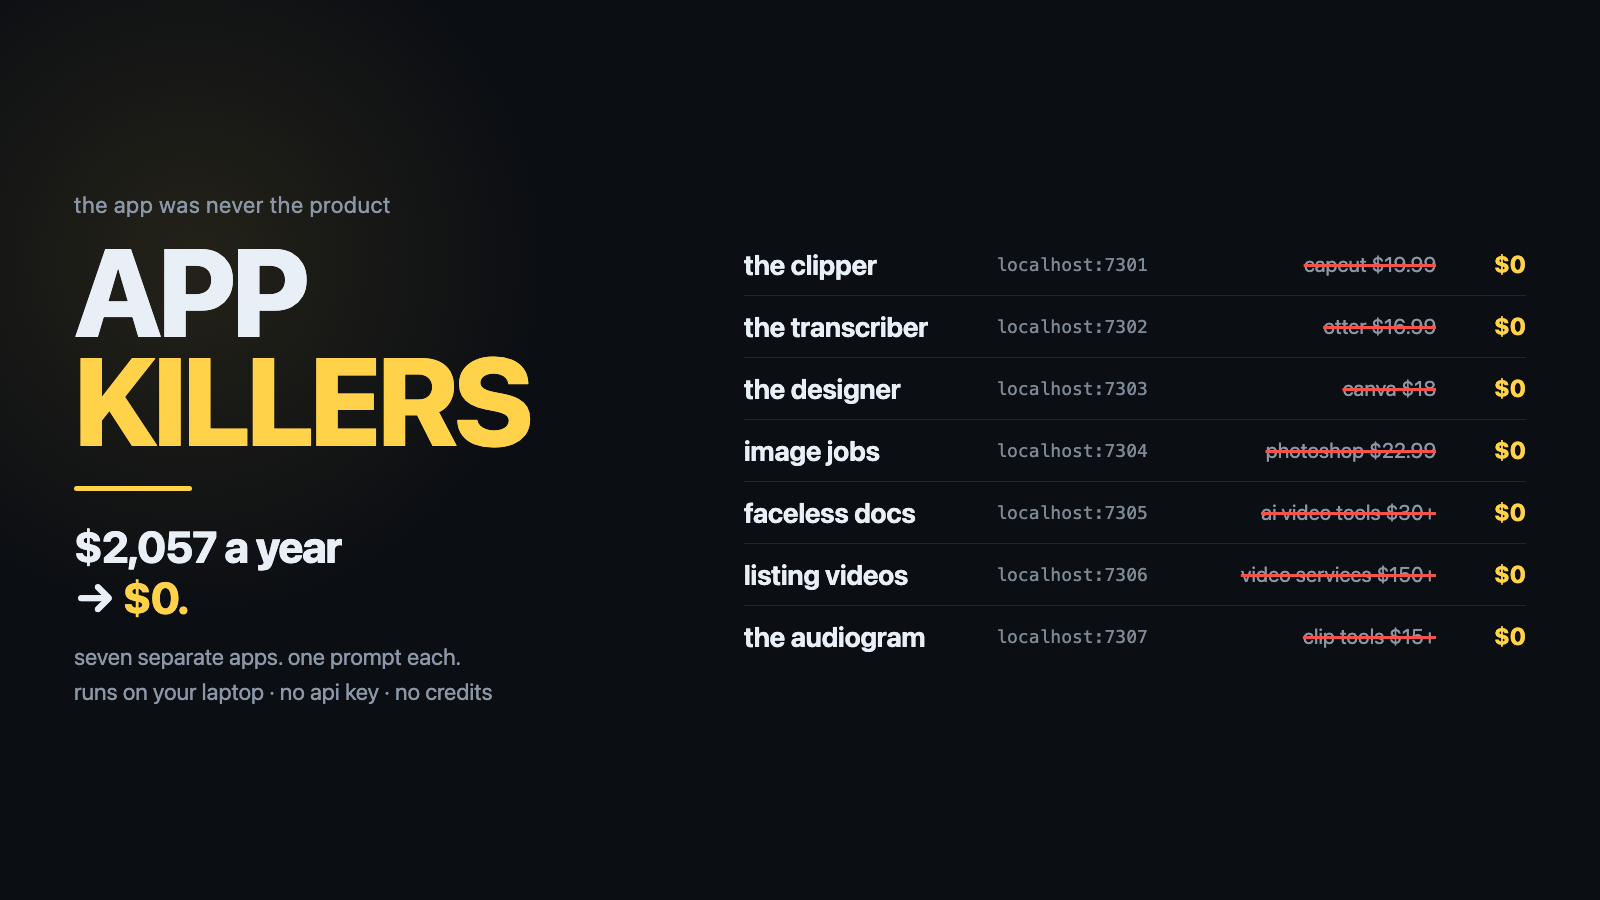
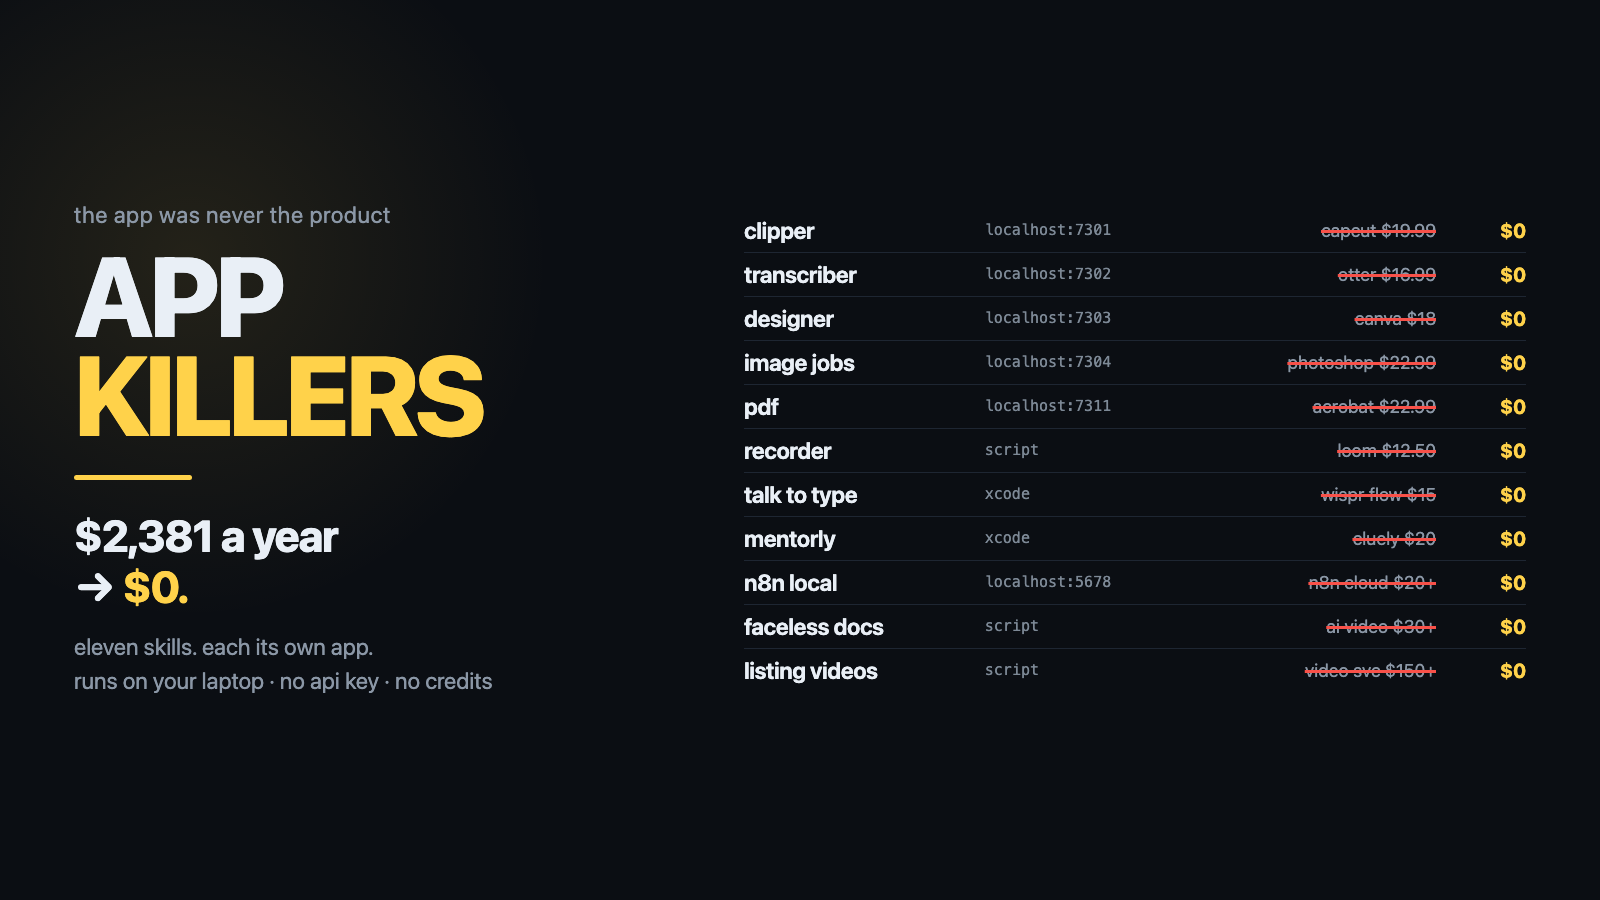
Remove a real client's name from example data; restore missing example files
The listing-videos examples carried a real agent's name, brokerage and property
address. Replaced with fictional data. Also fixes a builder bug that silently
stopped copying example-listing.json and example-episode.json, and refreshes the
banner to match the 11 skills actually in the repo.

diff --git a/skills/listing-videos/scripts/make_tour.py b/skills/listing-videos/scripts/make_tour.py
@@ -5,11 +5,11 @@
 
 listing.json:
 {
-  "address": "11926 Verrazano Dr",
+  "address": "1420 Maple Ridge Ln",
   "city": "Orlando, FL",
   "price": "$660,000",
   "specs": "4 bed  ·  3 bath  ·  2,940 sqft",
-  "agent": {"name": "Debbi Jones", "phone": "(407) 555-0142", "brokerage": "Keller Williams"},
+  "agent": {"name": "Jordan Reyes", "phone": "(555) 010-4477", "brokerage": "Cedar & Oak Realty"},
   "orientation": "vertical",           // or "horizontal"
   "seconds_per_shot": 3.2,
   "music": "optional/path/to/music.mp3",

diff --git a/skills/listing-videos/02-assembly-spec.md b/skills/listing-videos/02-assembly-spec.md
@@ -56,7 +56,7 @@ their own audio, and a silent file lets the agent add a trending sound.
 
 ```json
 "music": "music.mp3"                            // bed at 42%, fades out over the last 2.5s
-"narration": "Welcome to 11926 Verrazano Drive."  // TTS voiceover; ducks music to 16%
+"narration": "Welcome to 1420 Maple Ridge Lane."  // TTS voiceover; ducks music to 16%
 "voice": "en-US-AriaNeural"
 ```
 

diff --git a/skills/listing-videos/SKILL.md b/skills/listing-videos/SKILL.md
@@ -63,8 +63,8 @@ costs seconds; reordering after rendering costs a rebuild.
 
 ```json
 {
-  "address": "11926 Verrazano Dr",
-  "city": "Orlando, FL 32836",
+  "address": "1420 Maple Ridge Ln",
+  "city": "Orlando, FL 32801",
   "price": "$660,000",
   "specs": "4 bed  ·  3 bath  ·  2,940 sqft",
   "agent": {"name": "...", "phone": "...", "brokerage": "..."},
